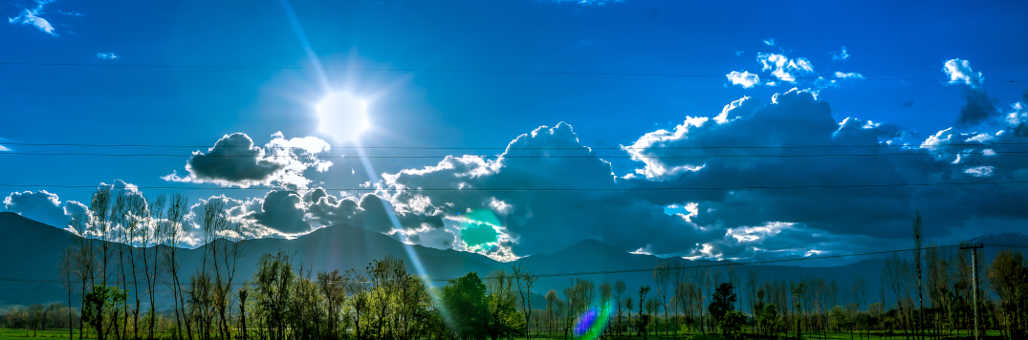
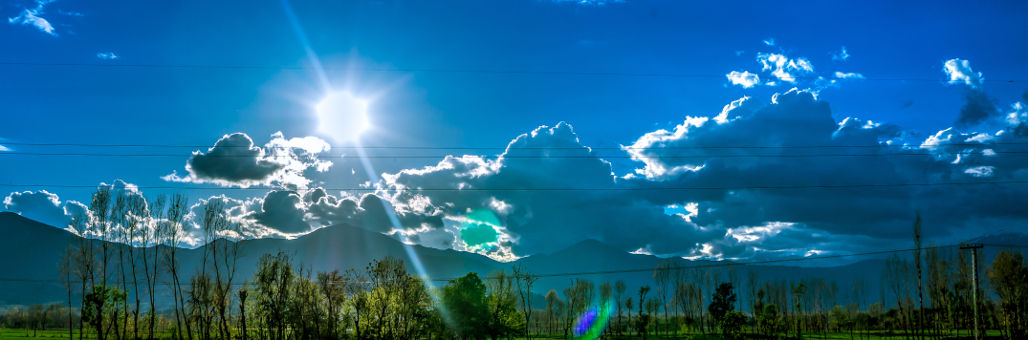
franklin-6 update

diff --git a/assignments/franklin-6/franklin-6.html b/assignments/franklin-6/franklin-6.html
@@ -37,10 +37,10 @@
   <main>
     <h2>The City of Franklin</h2>
     <figure class="hero">
-      <img src="images/franklin-original-cropped-hd.jpeg" alt="City of Franklin" sizes="100vw"
-           srcset="images/franklin-original-cropped-SM.jpeg 200w,
-                   images/franklin-original-cropped-MD.jpeg 500w,
-                   images/franklin-original-cropped-LG.jpeg 800w">
+      <img src="images/franklin-original-cropped.jpeg" alt="City of Franklin" sizes="100vw"
+           srcset="images/franklin-original-cropped-300.jpeg 300w,
+                   images/franklin-original-cropped-600.jpeg 600w,
+                   images/franklin-original-cropped-900.jpeg 900w">
     </figure>
     <section class="weather">
       <h3>Weather Summary</h3>    
